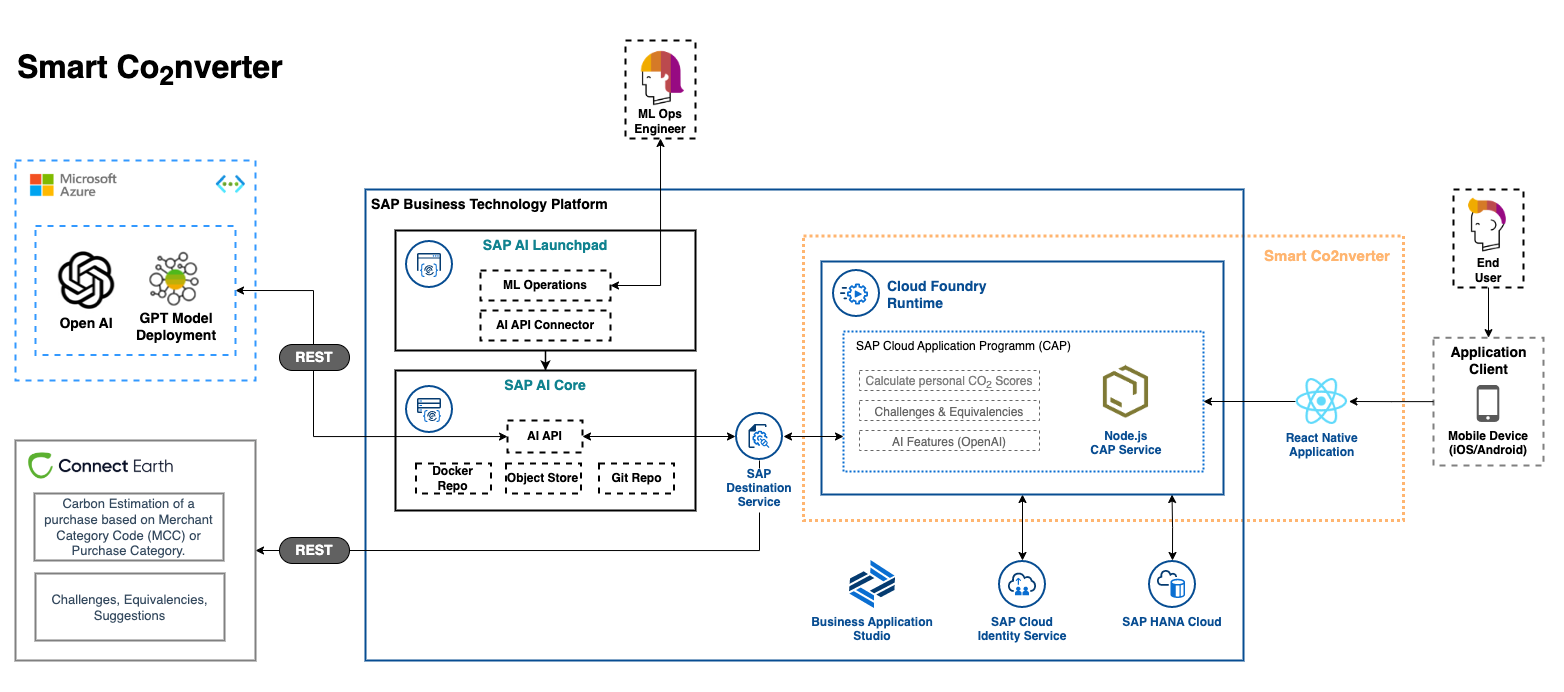
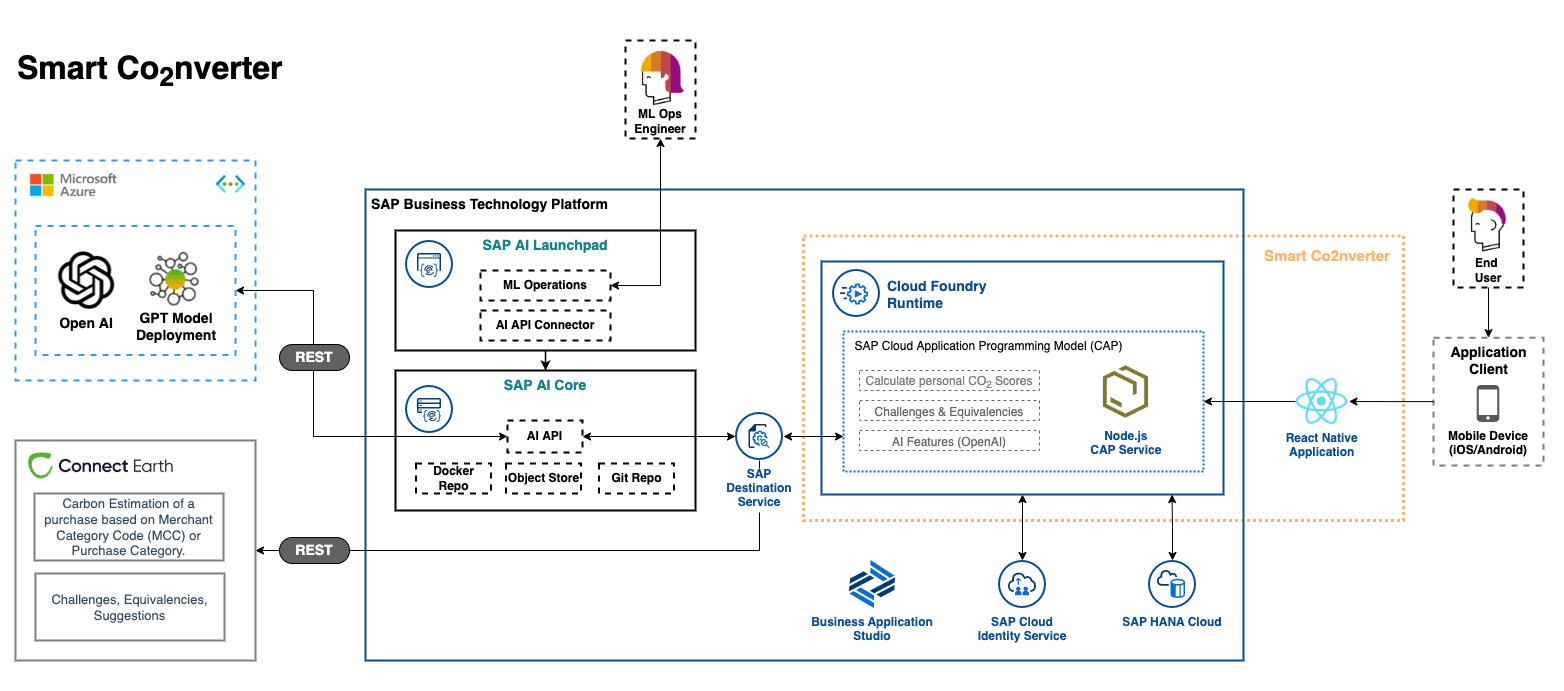
updated the architecture and starting describing

diff --git a/documentation/03-application/01-application-architecture.md b/documentation/03-application/01-application-architecture.md
@@ -1,26 +1,16 @@
 ![architecture](./assets/architecture.png)
 
-TODO
+## **Core Application**
 
-## Core Application
-
-- describing the core parts of the smart converter
+The following covers the core parts of the Smart Co2nverter application based on SAP BTP's Cloud Foundry Runtime, including the SAP Cloud Application Programming Model (CAP) backend, SAP HANA Cloud for data storage, a React Native mobile app and the SAP Destination service for resolving connections to external services.
 
 ### SAP BTP, Cloud Foundry Runtime
 
-- runtime where backend (CAP) is deployed on
+SAP BTP, Cloud Foundry Runtime serves for deploying SAP Cloud Application Programming Model (CAP) applications. It offers a scalable and flexible environment for running cloud-native applications, allowing developers to focus on building their applications without worrying about the underlying infrastructure.
 
-### SAP Cloud Application Programming (CAP)
+### SAP Cloud Application Programming Model (CAP)
 
-- remove typo in architecture ("Programm")
-- backend part which connects the dots
-- defines data model (link to next card)
-- calculation of co2 scores
-  - Connect Earth
-- challenges & equivalencies
-  - Connect Earth
-- ai features
-  - via destination service to AI Core/OpenAI Service
+The SAP Cloud Application Programming Model (CAP) serves as the backend of the application and connects various components. It defines the data model and enables features such as calculating CO2 scores based on bank transactions. Additionally, it offers challenges to reduce CO2 footprint and provides equivalencies to compare CO2 footprints. The data related to CO2 scores, challenges, and equivalencies can be delivered via an API provided by Connect Earth, which is connected to the CAP backend through the destination service. AI features are also enabled through the destination service, which connects the CAP backend to AI Core and with that to Azure OpenAI Services.
 
 ### SAP Cloud Identity Service
 
@@ -28,7 +18,7 @@ TODO
 
 ### SAP HANA Cloud
 
-- holds the data...
+SAP HANA Cloud is used to store the data related to transactions, accounts and personal habits, as described in [Data Model and provided Data](./03-application/02-data-model.md).
 
 ### React Native Application
 
@@ -43,7 +33,7 @@ TODO
 - used for development of CAP and deployment
 - easy to use in combination with cloud foundry and btp services
 
-## AI
+## **AI**
 
 - ai parts like suggestions, summarization etc.
 
@@ -59,6 +49,6 @@ TODO
 
 - gpt deployment on azure for enterprise
 
-## Connect Earth
+## **Connect Earth**
 
-- api to get co2 factors, challenges, suggestions and equivalencies
+Connect Earth provides an API called [Connect Insights API (Transaction Emissions)](https://docs.connect.earth/?id=-nbsp-connect-insights-transaction-emissions) which is our recommendation to calculate CO2 footprints including personal habits, providing Challenges and Suggestions to reduce ones footprint and also delivering Equivalencies to throw more light on the personal CO2 footprint.
